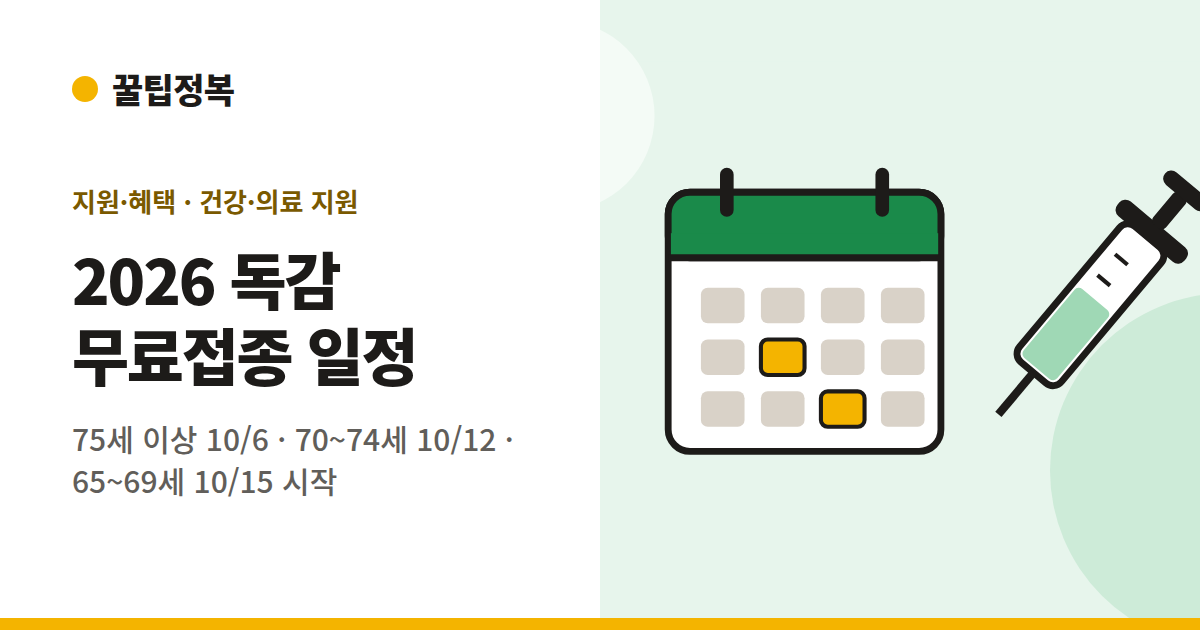
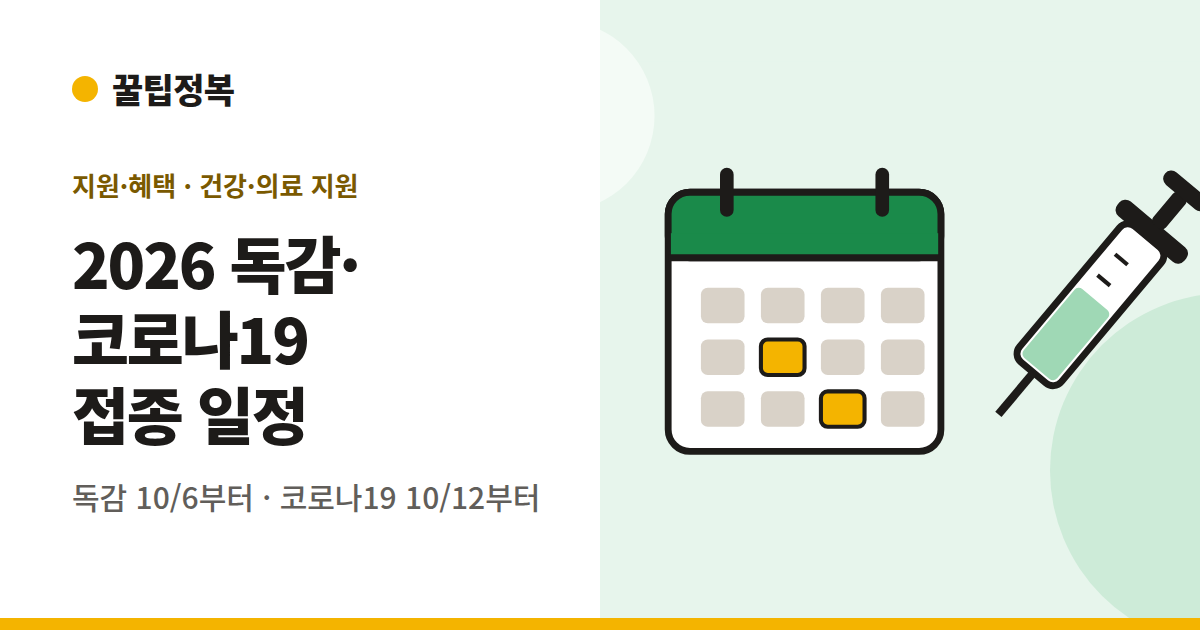
Add 2026-2027 COVID-19 vaccination schedule to flu vaccination guide
Claude-Session: https://claude.ai/code/session_01UeEtVFVWMgirAoUtyHaaoz

Changed region(s): [[0.0617, 0.2714, 0.4625, 0.8143]]

diff --git a/src/content/articles/benefits/flu-vaccination.md b/src/content/articles/benefits/flu-vaccination.md
@@ -1,8 +1,8 @@
 ---
-title: 2026 독감 무료접종｜65세 이상·어린이·임신부 시작일과 병원 찾기
-cardTitle: 2026 독감 무료접종 일정
-seoTitle: 2026 독감 무료접종｜연령별 시작일과 병원 찾기
-description: 2026-2027절기 독감 무료접종의 연령별 시작일, 무료 대상, 병원 찾는 방법과 준비물을 질병관리청 발표로 정리했습니다.
+title: 2026 독감 무료접종·코로나19 접종｜연령별 시작일과 병원 찾기
+cardTitle: 2026 독감·코로나19 접종 일정
+seoTitle: 2026 독감 무료접종·코로나19 접종｜연령별 시작일
+description: 2026-2027절기 독감 무료접종과 코로나19 국가예방접종의 연령별 시작일, 동시 접종, 병원 찾기와 준비물을 질병관리청 발표로 정리했습니다.
 subcategory: health-support
 contentType: guide
 contentMode: timely
@@ -14,12 +14,15 @@ synonyms:
   - 어린이 독감 무료접종
   - 임신부 독감 무료접종
   - 독감 무료접종 병원 찾기
-summary: 2026-2027절기 독감 무료접종은 어린이·임신부는 이미 시작됐고, 75세 이상은 10월 6일, 70~74세는 10월 12일, 65~69세는 10월 15일부터 시작합니다. 주소와 관계없이 지정 위탁의료기관과 보건소에서 무료로 접종할 수 있습니다.
+  - 코로나19 예방접종 2026
+  - 코로나 백신 65세
+  - 독감 코로나 동시접종
+summary: 2026-2027절기 독감 무료접종은 어린이·임신부는 이미 시작됐고, 75세 이상은 10월 6일, 70~74세는 10월 12일, 65~69세는 10월 15일부터 시작합니다. 독감 무료접종은 주소와 관계없이 지정 위탁의료기관과 보건소에서 받을 수 있습니다. 코로나19 국가예방접종은 70세 이상과 12세 이상 면역저하자 등이 10월 12일, 65~69세가 10월 15일부터 시작하며, 65세 이상은 독감과 코로나19 백신을 같은 날 접종할 수 있습니다.
 thumbnail: /images/thumbnails/flu-vaccination.svg
 ogImage: /images/og/flu-vaccination.png
 datePublished: 2026-10-05
-dateModified: 2026-10-05
-researchedAt: 2026-10-05
+dateModified: 2026-10-09
+researchedAt: 2026-10-09
 author: operator
 ymyl: medium
 topics: [health]
@@ -37,6 +40,8 @@ quickFacts:
       value: 9월 21일부터 접종 중
     - label: 어디서
       value: 주소지와 관계없이 전국 위탁의료기관·보건소, 무료
+    - label: 코로나19
+      value: 70세 이상·면역저하자 10월 12일, 65~69세 10월 15일부터(65세 이상은 독감과 같은 날 접종 가능)
 checklist:
   title: 방문 전에 확인할 것
   items:
@@ -46,7 +51,7 @@ checklist:
 actionLinks:
   - org: 질병관리청
     action: check
-    purpose: 무료접종 병원 찾아보기
+    purpose: 예방접종 의료기관 찾아보기
     url: https://nip.kdca.go.kr/irhp/mngm/goVcntMngm.do?menuLv=3&menuCd=333
     sourceId: local:nip-flu-clinic
   - org: 질병관리청
@@ -54,12 +59,17 @@ actionLinks:
     purpose: 독감 접종 일정 발표 보기
     url: https://www.kdca.go.kr/bbs/kdca/42/312835/artclView.do
     sourceId: local:kdca-flu-2026-10-02
+changelog:
+  - date: 2026-10-09
+    summary: 질병관리청 9월 17일·10월 2일 발표 기준으로 2026-2027절기 코로나19 국가예방접종 대상·시작일·동시 접종·준비물을 추가했습니다.
 faq:
   - question: 주소지가 아닌 지역의 병원에서도 무료로 맞을 수 있나요?
     answer: 네. 질병관리청은 인플루엔자 국가예방접종을 주소지와 관계없이 가까운 위탁의료기관과 보건소에서 받을 수 있다고 안내합니다.
+  - question: 독감과 코로나19 백신을 같은 날 맞을 수 있나요?
+    answer: 네. 질병관리청은 65세 이상은 두 접종 대상에 모두 해당하므로 접종 기관 한 번 방문으로 동시에 접종받을 것을 권고합니다. 70세 이상은 10월 12일, 65~69세는 10월 15일부터 같은 일정으로 맞을 수 있습니다.
   - question: 65세 이상 나이는 무엇을 기준으로 하나요?
     answer: 주민등록상 출생연도 기준입니다. 2026-2027절기 어르신 무료 대상은 1961년 12월 31일 이전에 태어난 분입니다.
-sourceIds: [local:kdca-flu-2026-09-16, local:kdca-flu-2026-10-02, local:nip-flu-program]
+sourceIds: [local:kdca-flu-2026-09-16, local:kdca-flu-2026-10-02, local:nip-flu-program, local:kdca-covid-2026-09-17, local:kdca-flu-covid-2026-10-02]
 localSources:
   - id: local:kdca-flu-2026-09-16
     title: 이른 인플루엔자 유행에 대응해 어린이와 어르신 국가예방접종 앞당긴다(보도참고자료, 2026-09-16)
@@ -79,6 +89,18 @@ localSources:
     url: https://nip.kdca.go.kr/irhp/infm/goVcntInfo.do?menuCd=134&menuLv=1
     level: S1
     checkedAt: 2026-10-05
+  - id: local:kdca-covid-2026-09-17
+    title: 코로나19 예방접종 '필수'로 전환…내달 12일부터 접종 시작(정책뉴스, 2026-09-17)
+    publisher: 질병관리청
+    url: https://www.korea.kr/news/policyNewsView.do?newsId=148972097
+    level: S1
+    checkedAt: 2026-10-09
+  - id: local:kdca-flu-covid-2026-10-02
+    title: 어르신 독감 예방접종 6일부터…코로나19 접종은 12일 시작(정책뉴스, 2026-10-02)
+    publisher: 질병관리청
+    url: https://www.korea.kr/news/policyNewsView.do?newsId=148972954
+    level: S1
+    checkedAt: 2026-10-09
   - id: local:nip-flu-clinic
     title: 위탁의료기관 찾기 › 인플루엔자 예방접종(예방접종도우미)
     publisher: 질병관리청
@@ -105,6 +127,26 @@ localSources:
 
 면역저하자 등 고위험군은 나이별 일정과 관계없이 10월 6일(화)부터 의료진과 상담 후 접종할 수 있습니다. 요양병원과 요양시설은 백신이 공급되는 대로 별도 일정으로 접종합니다.
 
+## 코로나19 접종도 같이 시작
+
+질병관리청은 2026-2027절기부터 코로나19 예방접종을 임시예방접종에서 **필수예방접종**으로 전환했습니다. 고위험군을 대상으로 XFG 백신을 접종합니다.
+
+<div class="table-cards">
+
+| 대상 | 접종 시작 |
+|---|---|
+| 70세 이상 | 2026년 10월 12일(월)부터 |
+| 65~69세 | 2026년 10월 15일(목)부터 |
+| 12세 이상 면역저하자 | 2026년 10월 12일(월)부터 |
+| 요양병원 등 감염취약시설 입원·입소자 | 2026년 10월 12일(월)부터 |
+
+</div>
+
+- 1회 접종으로 끝나고, 12세 이상 면역저하자는 2회 접종합니다.
+- 12세 미만 면역저하자 등은 이전 접종 이력에 따라 1회 또는 2회 기초접종이 필요할 수 있어 의료진과 상담한 뒤 접종합니다.
+- 65세 이상은 독감과 코로나19 접종 대상에 모두 해당합니다. 질병관리청은 **한 번 방문해 두 백신을 동시에** 맞을 것을 권고합니다.
+- 독감과 같이 주소지와 관계없이 가까운 위탁의료기관이나 보건소에서 맞고, 예방접종도우미에서 의료기관과 접종 가능 여부를 확인할 수 있습니다.
+
 ## 어디서 맞나요
 
 주소지와 관계없이 전국 **위탁의료기관**(약 2.3만 곳)과 **보건소**(보건지소·보건진료소 포함)에서 무료로 접종할 수 있습니다.
@@ -125,6 +167,8 @@ localSources:
 - 일부 어린이는 2회 접종 대상입니다. 우리 아이가 몇 번 맞아야 하는지는 접종 전 예진의사와 확인하세요.
 - 임신부는 임신 주수와 관계없이 무료 대상이며, 산모수첩이나 임신확인서 등으로 확인합니다.
 
-질병관리청은 접종 후 20~30분 동안 접종기관에 머물렀다가 귀가하도록 안내합니다.
+## 가져갈 것
+
+대상 확인을 위해 신분증을 챙깁니다. 질병관리청은 신분증 또는 주민등록등본, 국민건강보험증 등 서류를 지참하라고 안내합니다. 접종 후에는 20~30분 동안 접종기관에 머물며 이상 반응을 살핀 뒤 귀가합니다.
 
 꿀팁정복은 개인의 접종 여부나 건강 상태를 판단하지 않습니다. 접종 관련 상담은 의료기관이나 보건소에서 받으세요.
